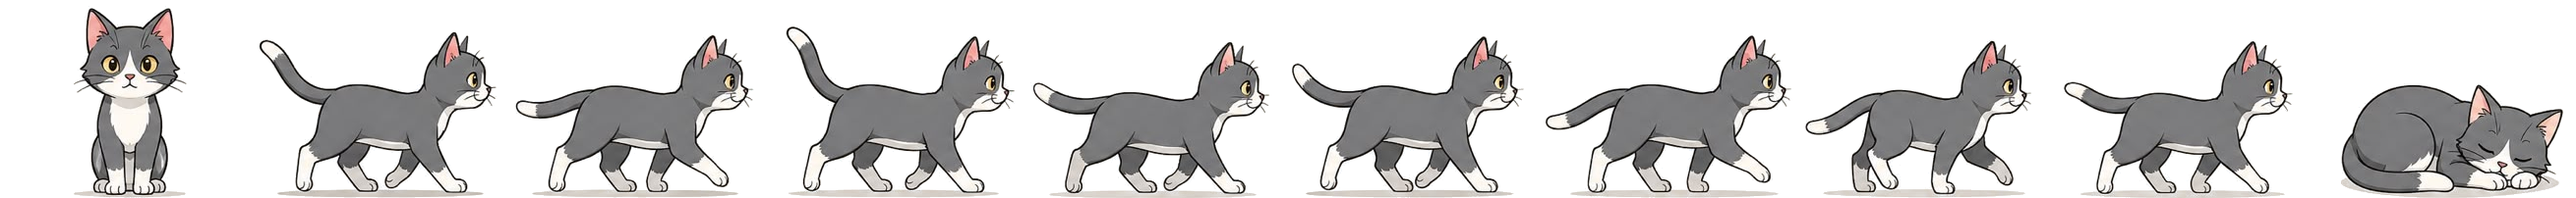
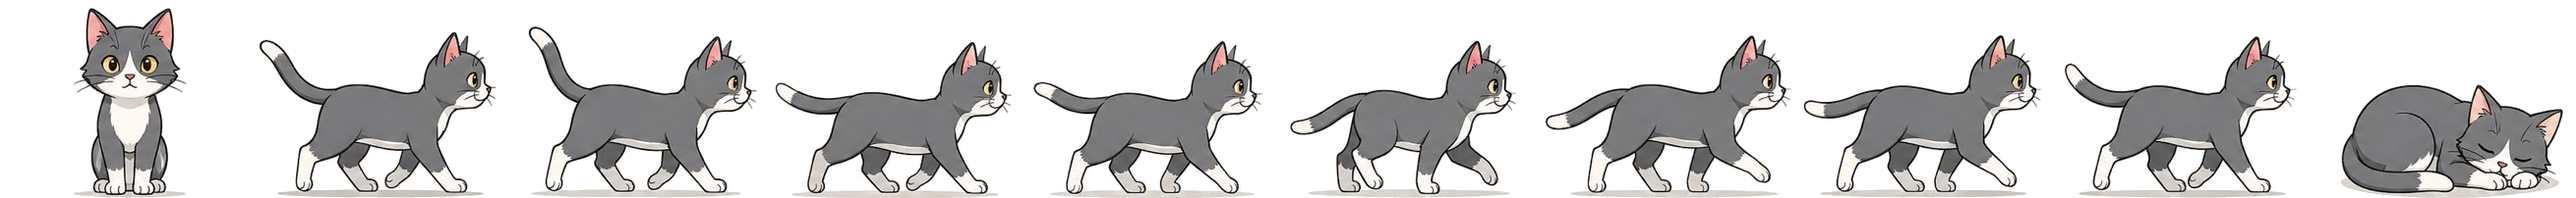
Pets: idle facing you, and the walk frames put in gait order
Two things you noticed, both real.

The cat's walk did not read as stepping. It is not the packing — measured on
the source art, before any alignment, the cat's paws travel 9px across all
eight frames, 3% of its body length. The drawings do not contain a stride;
frames 1-8 differ in the tail and head and barely at all in the legs. The dog
does have one, 40px of it, but the frames did not arrive in gait order: played
1..8 its legs changed direction seven times in eight frames, which is a jitter,
not a walk.

So the packer now orders the walk by the cyclic sequence that minimises total
silhouette change around the loop — every ordering tried, 7!/2 being nothing.
That cuts the change 28% for the dog and turns its stride into one clean
open-close-open (220→181→217px of paw spread). It cannot conjure a stride for
the cat; only better cat art can.

Standing still now uses the front idle, the sitting pose that faces you, which
is what you asked for and the better use of the drawing. The reason it did not
before was the accessory anchor: the head moves half a body between the front
and side poses, and one anchor cannot serve both — a hat would have hung beside
the head every time the pet paused. So the anchor follows the pose now. The
pose is decided in one place, the pet's own module, and both the picture and
the hat ask it; a second copy of that rule in the accessory code would drift
and the hat would come off. Three anchors each, measured off the packed sheet:
[…]

Changed region(s): [[0.1855, 0.1782, 0.5874, 1.0], [0.6802, 0.1782, 0.8966, 1.0]]

diff --git a/games/pets/dog.js b/games/pets/dog.js
@@ -1,30 +1,45 @@
 /* ── Dog ──
-   Same shape as cat.js: artwork rather than canvas paths, one row of equal
-   cells in img/dog.png that all stand on the cell's floor, cell 0 the
-   front-facing idle, cells 1-8 one loop of the side-view walk, cell 9 asleep,
-   every cell facing RIGHT so the room's own flip is the only thing that decides
-   which way the dog looks.
+   Drawn from artwork rather than canvas paths, exactly like cat.js. One
+   sheet (img/dog.png) holds equal cells that all stand on the cell's floor, so
+   changing pose never shifts the paws: cell 0 is the idle, sitting and facing
+   you, cells 1-8 are one loop of the walk seen from the side, cell 9 is asleep.
+   The walk cells face RIGHT — the direction the room treats as unmirrored — so
+   walking left is the room's own flip and nothing here has to know about it.
 
-   `pal` is ignored — the artwork ships in one coat, which is why room-base.js
-   no longer lists a dog palette. The sheet has a real sleeping pose, so sleep
-   and nap use it rather than being faked by tilting the body (see
-   OWN_SLEEP_POSE in room-pets.js). */
+   `pal` is ignored: the artwork ships in one coat, which is why room-base.js no
+   longer lists a dog palette and the status bar stops offering colour dots.
+
+   Unlike Tom, this sheet has a real sleeping pose, so sleep and nap use it
+   instead of being faked by tilting the body — see OWN_SLEEP_POSE in
+   room-pets.js, which stops the lie-down transform from tipping over a dog that
+   is already lying down. */
 const DOG_CELL_W = 256;
 const DOG_CELL_H = 210;
-const DOG_FRONT = 0;        // cell index of the idle, facing the viewer
 const DOG_WALK_FROM = 1;    // first walk cell
 const DOG_WALK_N = 8;       // how many walk cells
-const DOG_SLEEP = 9;        // cell index of the sleeping pose
-// Standing still uses a walk cell rather than the front idle. The idle is a
-// SITTING pose facing the viewer, and a pet that swung side-on to front-on
-// every time it paused would also swing its hat off its head — the accessory
-// anchors can only be measured for one pose, and it has to be the one worn
-// most of the time. This is the cell whose legs sit closest together.
-const DOG_STAND = 8;
 const DOG_DRAW_W = 1.50;    // drawn width, as a fraction of the pet size
 const DOG_FEET_Y = 0.38;    // where the cell's ground line sits below the origin
-const DOG_STEP_RATE = 0.72; // walk cells per unit of the room's leg phase
+// Walk cells per unit of the room's leg phase, which advances 10 a second — so
+// the eight-cell loop is a full stride every 1.1s.
+const DOG_STEP_RATE = 0.72;
 
+/* The cell each pose lives in. 'walk' is deliberately absent: it has no single
+   cell, being picked from the leg phase. */
+const DOG_POSE_CELL = { front: 0, sleep: 9 };
+
+/* Which pose the dog is in. It lives out here rather than inside the draw call
+   because the accessory code has to ask the same question — the head sits half
+   a body apart between the front and side poses, so a hat can only be placed
+   once the pose is known, and both answers have to come from one place. */
+function dogPose(moving, action) {
+  if (moving) return 'walk';
+  if (action === 'sleep' || action === 'nap') return 'sleep';
+  return 'front';
+}
+
+// Resolved against this file's own URL, because the three pages that load it
+// (room, world, index) sit at different depths. Fetched on first draw rather
+// than at load: a page with no dog on it must not pay for the sheet.
 const DOG_SRC = new URL('img/dog.png', document.currentScript.src).href;
 let _dogSheet = null;
 function dogSheet() {
@@ -36,16 +51,10 @@ function drawDogPet(ctx, s, lp, moving, hunger, action, ap, t, pal, view) {
   const art = dogSheet();
   if (!art.naturalWidth) return;   // sheet still downloading
 
-  /* 'portrait' is the shop card asking for a head-on pose, and it is the only
-     caller that ever asks. The room's own `view` is NOT it: for a pet that is
-     not directional the room reports 'front' every single frame, so reading
-     that here would pin the dog to its idle cell and it would never take a
-     step. Live pets stay side-on, which is also the pose the accessory anchor
-     is measured against. */
-  const col = view === 'portrait' ? DOG_FRONT
-    : moving ? DOG_WALK_FROM + Math.floor(lp * DOG_STEP_RATE) % DOG_WALK_N
-    : (action === 'sleep' || action === 'nap') ? DOG_SLEEP
-    : DOG_STAND;
+  const pose = dogPose(moving, action);
+  const col = pose === 'walk'
+    ? DOG_WALK_FROM + Math.floor(lp * DOG_STEP_RATE) % DOG_WALK_N
+    : DOG_POSE_CELL[pose];
 
   const w = s * DOG_DRAW_W;
   const h = w * DOG_CELL_H / DOG_CELL_W;

diff --git a/games/pets/cat.js b/games/pets/cat.js
@@ -1,10 +1,10 @@
 /* ── Cat ──
    Drawn from artwork rather than canvas paths, like Tom and the capybara. One
    sheet (img/cat.png) holds equal cells that all stand on the cell's floor, so
-   changing frame never shifts the paws: cell 0 is the front-facing idle, cells
-   1-8 are one loop of the walk seen from the side, cell 9 is asleep. Every cell
-   faces RIGHT — the direction the room treats as unmirrored — so walking left
-   is the room's own flip and nothing here has to know about it.
+   changing pose never shifts the paws: cell 0 is the idle, sitting and facing
+   you, cells 1-8 are one loop of the walk seen from the side, cell 9 is asleep.
+   The walk cells face RIGHT — the direction the room treats as unmirrored — so
+   walking left is the room's own flip and nothing here has to know about it.
 
    `pal` is ignored: the artwork ships in one coat, which is why room-base.js no
    longer lists a cat palette and the status bar stops offering colour dots.
@@ -15,21 +15,27 @@
    is already lying down. */
 const CAT_CELL_W = 262;
 const CAT_CELL_H = 202;
-const CAT_FRONT = 0;        // cell index of the idle, facing the viewer
 const CAT_WALK_FROM = 1;    // first walk cell
 const CAT_WALK_N = 8;       // how many walk cells
-const CAT_SLEEP = 9;        // cell index of the sleeping pose
-// Standing still uses a walk cell rather than the front idle. The idle is a
-// SITTING pose facing the viewer, and a pet that swung side-on to front-on
-// every time it paused would also swing its hat off its head — the accessory
-// anchors can only be measured for one pose, and it has to be the one worn
-// most of the time. This is the cell whose legs sit closest together.
-const CAT_STAND = 7;
 const CAT_DRAW_W = 1.50;    // drawn width, as a fraction of the pet size
 const CAT_FEET_Y = 0.38;    // where the cell's ground line sits below the origin
 // Walk cells per unit of the room's leg phase, which advances 10 a second — so
 // the eight-cell loop is a full stride every 1.1s.
 const CAT_STEP_RATE = 0.72;
+
+/* The cell each pose lives in. 'walk' is deliberately absent: it has no single
+   cell, being picked from the leg phase. */
+const CAT_POSE_CELL = { front: 0, sleep: 9 };
+
+/* Which pose the cat is in. It lives out here rather than inside the draw call
+   because the accessory code has to ask the same question — the head sits half
+   a body apart between the front and side poses, so a hat can only be placed
+   once the pose is known, and both answers have to come from one place. */
+function catPose(moving, action) {
+  if (moving) return 'walk';
+  if (action === 'sleep' || action === 'nap') return 'sleep';
+  return 'front';
+}
 
 // Resolved against this file's own URL, because the three pages that load it
 // (room, world, index) sit at different depths. Fetched on first draw rather
@@ -45,16 +51,10 @@ function drawCatPet(ctx, s, lp, moving, hunger, action, ap, t, pal, view) {
   const art = catSheet();
   if (!art.naturalWidth) return;   // sheet still downloading
 
-  /* 'portrait' is the shop card asking for a head-on pose, and it is the only
-     caller that ever asks. The room's own `view` is NOT it: for a pet that is
-     not directional the room reports 'front' every single frame, so reading
-     that here would pin the cat to its idle cell and it would never take a
-     step. Live pets stay side-on, which is also the pose the accessory anchor
-     is measured against. */
-  const col = view === 'portrait' ? CAT_FRONT
-    : moving ? CAT_WALK_FROM + Math.floor(lp * CAT_STEP_RATE) % CAT_WALK_N
-    : (action === 'sleep' || action === 'nap') ? CAT_SLEEP
-    : CAT_STAND;
+  const pose = catPose(moving, action);
+  const col = pose === 'walk'
+    ? CAT_WALK_FROM + Math.floor(lp * CAT_STEP_RATE) % CAT_WALK_N
+    : CAT_POSE_CELL[pose];
 
   const w = s * CAT_DRAW_W;
   const h = w * CAT_CELL_H / CAT_CELL_W;

diff --git a/games/room/js/room-accessories.js b/games/room/js/room-accessories.js
@@ -187,14 +187,21 @@
 
     // Draw accessory on pet canvas — offset to each pet's actual head position
     const PET_HEAD_OFFSETS = {
-      // Cat and dog come from artwork (pets/img/*.png), so these were read off
-      // the sheet rather than from path geometry. They are measured on the SIDE
-      // pose — the one worn standing and walking, which is nearly all the time.
-      // The front-facing idle puts the head half a body to the left, and no
-      // single anchor can serve both; the capybara is anchored the same way and
-      // for the same reason.
-      cat:     { hx:  0.39, hy: -0.38, r: 0.21 },
-      dog:     { hx:  0.40, hy: -0.37, r: 0.22 },
+      /* Cat and dog come from artwork (pets/img/*.png) and change pose: they
+         walk side-on, idle sitting and facing you, and sleep curled up. The
+         head moves half a body between those, so one anchor cannot serve all
+         three — these carry a set instead, and the caller says which pose is
+         showing. Each was read off the packed sheet, not from path geometry. */
+      cat: {
+        front: { hx:  0.01, hy: -0.47, r: 0.25 },
+        side:  { hx:  0.40, hy: -0.30, r: 0.22 },
+        sleep: { hx:  0.40, hy:  0.00, r: 0.22 },
+      },
+      dog: {
+        front: { hx:  0.00, hy: -0.51, r: 0.27 },
+        side:  { hx:  0.42, hy: -0.30, r: 0.22 },
+        sleep: { hx:  0.41, hy:  0.01, r: 0.22 },
+      },
       bunny:   { hx:  0.30, hy: -0.16, r: 0.26 },
       hamster: { hx:  0.25, hy: -0.10, r: 0.30 },
       fox:     { hx:  0.38, hy: -0.14, r: 0.27 },
@@ -220,7 +227,10 @@
     // Accessories that render behind the pet body
     const BACK_LAYER_ACCESSORIES = ['wings'];
 
-    function drawPetAccessory(ctx, petType, accId, s, layer) {
+    /* `pose` is only read for pets whose entry above is a set — the sprite pets
+       that change silhouette. Everything else keeps one head all its life and
+       ignores it, so callers that do not know the pose can leave it out. */
+    function drawPetAccessory(ctx, petType, accId, s, layer, pose) {
       if (!accId) return;
       const acc = PET_ACCESSORIES.find(a => a.id === accId);
       if (!acc) return;
@@ -228,7 +238,8 @@
       // If layer is specified, only draw matching layer
       if (layer === 'back' && !isBack) return;
       if (layer === 'front' && isBack) return;
-      const ho = PET_HEAD_OFFSETS[petType] || { hx: 0, hy: -0.3, r: 0.28 };
+      const entry = PET_HEAD_OFFSETS[petType] || { hx: 0, hy: -0.3, r: 0.28 };
+      const ho = entry.side ? (entry[pose] || entry.side) : entry;
       const hx = s * ho.hx;   // head centre X
       const hy = s * ho.hy;   // head centre Y
       const hr = s * ho.r;    // head radius

diff --git a/games/room/js/room-pets.js b/games/room/js/room-pets.js
@@ -736,10 +736,13 @@
 
           // Draw back-layer accessories (cape, wings) behind the pet
           const accId = petInst ? petInst.accessory : null;
-          if (accId) drawPetAccessory(ctx, p.type, accId, size, 'back');
+          // Sprite pets change silhouette, so the hat has to know which pose is
+          // showing; petPoseOf asks the pet's own module rather than guessing.
+          const accPose = petPoseOf(p.type, moving, currentAction);
+          if (accId) drawPetAccessory(ctx, p.type, accId, size, 'back', accPose);
           drawPetCanvas(ctx, p.type, size, legPhase, moving, hunger, t, currentAction, actionProgress, color, petView);
           // Draw front-layer accessories on top of the pet
-          if (accId) drawPetAccessory(ctx, p.type, accId, size, 'front');
+          if (accId) drawPetAccessory(ctx, p.type, accId, size, 'front', accPose);
           ctx.restore();
 
           // Action floating effects
@@ -999,6 +1002,16 @@
       ctx.lineTo(x, y + r);
       ctx.arcTo(x, y, x + r, y, r);
       ctx.closePath();
+    }
+
+    /* Which pose a sprite pet is showing. Asked of the pet's own module, never
+       recomputed here — the accessory anchor and the picture underneath it have
+       to agree, and two copies of this rule would drift apart. Pets drawn from
+       paths never change silhouette, so 'side' covers them. */
+    function petPoseOf(type, moving, action) {
+      if (type === 'cat' && typeof catPose === 'function') return catPose(moving, action);
+      if (type === 'dog' && typeof dogPose === 'function') return dogPose(moving, action);
+      return 'side';
     }
 
     /* Pets whose sheet holds a real sleeping pose. The lie-down transform below

diff --git a/games/world/js/world-actors.js b/games/world/js/world-actors.js
@@ -57,12 +57,18 @@ const WorldActors = (function () {
     // in the effect pass already signals it.
     if (action && !(moving && action === WORLD_HIGHFIVE.actionId)) applyWorldActionTransform(ctx, action, ap, size, t);
     // Accessory back layer (cape/wings) → pet body → accessory front layer.
-    if (a.outfit) { try { drawPetAccessory(ctx, a.pet, a.outfit, size, 'back'); } catch (e) {} }
+    // Sprite pets change silhouette between walking, idling and sleeping, so the
+    // hat has to know which pose is showing. Their own module answers, so this
+    // can never disagree with the picture underneath it.
+    const accPose = a.pet === 'cat' && typeof catPose === 'function' ? catPose(moving, action)
+      : a.pet === 'dog' && typeof dogPose === 'function' ? dogPose(moving, action)
+      : 'side';
+    if (a.outfit) { try { drawPetAccessory(ctx, a.pet, a.outfit, size, 'back', accPose); } catch (e) {} }
     // Only the capybara reads this: standing still means its sitting pose.
     // Tom and Jerry pick their own frame from `moving`, and the rest ignore it.
     const view = moving ? 'side' : 'front';
     worldDrawPet(ctx, a.pet, size, legPhase, moving, action, ap, t, a.color, view);
-    if (a.outfit) { try { drawPetAccessory(ctx, a.pet, a.outfit, size, 'front'); } catch (e) {} }
+    if (a.outfit) { try { drawPetAccessory(ctx, a.pet, a.outfit, size, 'front', accPose); } catch (e) {} }
     ctx.restore();
 
     if (action) drawWorldActionEffect(ctx, px, py, size, ds, action, ap, t, scene.fx);

diff --git a/games/room/js/room-render.js b/games/room/js/room-render.js
@@ -218,9 +218,9 @@
       ctx.save();
       ctx.translate(w / 2, h * 0.65);
       const size = 18;
-      // 'portrait' asks a sprite pet for its head-on pose, which is what a card
-      // wants. Pets drawn from paths ignore it and carry on as before.
-      drawPetCanvas(ctx, petType, size, 0, false, 100, 0, null, 0, null, 'portrait');
+      // moving=false, so sprite pets give their idle pose — which for the cat
+      // and the dog is the head-on sit, exactly what a card wants.
+      drawPetCanvas(ctx, petType, size, 0, false, 100, 0, null, 0);
       ctx.restore();
       /* Sprite-drawn pets paint nothing until their sheet lands, and this card
          is painted once — so repaint it when the art arrives. Every sprite pet
